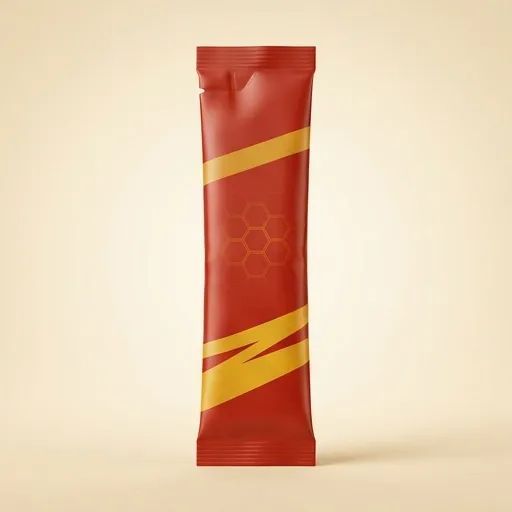
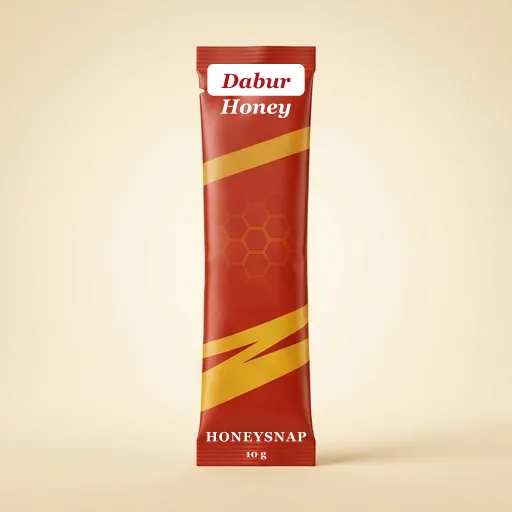
Connect admin edits to public site, brand HoneySnap pack, fix checkout input focus bug
- Recipes and products are now live lists merged with admin edits (published only)
- Branded the HoneySnap sachet image; shop uses it for both pack sizes
- Checkout fields no longer remount on every keystroke

Changed region(s): [[0.4062, 0.125, 0.5938, 0.25], [0.4062, 0.8438, 0.5938, 0.9062]]

diff --git a/src/lib/admin-data.js b/src/lib/admin-data.js
@@ -1,7 +1,7 @@
 // Admin data layer (prototype): localStorage-backed CMS + analytics helpers.
 // Production would replace these with API calls + a database.
-import { RECIPES, OCCASIONS } from '../data/recipes.js';
-import { PRODUCTS } from '../data/products.js';
+import { SEED_RECIPES as RECIPES, OCCASIONS, refreshRecipes } from '../data/recipes.js';
+import { SEED_PRODUCTS as PRODUCTS, refreshProducts } from '../data/products.js';
 
 export const CITIES = ['Delhi', 'Mumbai', 'Bengaluru', 'Hyderabad', 'Pune'];
 export const RECIPE_IMAGES = [
@@ -16,6 +16,8 @@ const save = (k, v) => { try { localStorage.setItem(k, JSON.stringify(v)); } cat
 
 export function resetAdminData() {
   try { Object.keys(localStorage).filter((k) => k.startsWith('dh_admin_')).forEach((k) => localStorage.removeItem(k)); } catch { /* ignore */ }
+  refreshRecipes();
+  refreshProducts();
 }
 
 // ---------- Recipes ----------  store: { [id]: recipe | { id, _deleted: true } }
@@ -32,11 +34,13 @@ export function saveRecipe(recipe) {
   const store = recipeStore();
   store[recipe.id] = { ...recipe, _deleted: false };
   save(K.recipes, store);
+  refreshRecipes();
 }
 export function deleteRecipe(id) {
   const store = recipeStore();
   if (RECIPES.some((r) => r.id === id)) store[id] = { id, _deleted: true }; else delete store[id];
   save(K.recipes, store);
+  refreshRecipes();
 }
 export const exportRecipesJSON = () => JSON.stringify(getAllRecipes(), null, 2);
 export function importRecipesJSON(text) {
@@ -45,6 +49,7 @@ export function importRecipesJSON(text) {
   const store = recipeStore();
   arr.forEach((r) => { if (r && r.id && r.title) store[r.id] = { ...r, _deleted: false }; });
   save(K.recipes, store);
+  refreshRecipes();
   return arr.length;
 }
 export const slugify = (s) => s.toLowerCase().replace(/[^a-z0-9]+/g, '-').replace(/^-|-$/g, '');
@@ -75,6 +80,7 @@ export function patchProduct(id, patch) {
   const s = productStore();
   s[id] = { ...(s[id] || {}), ...patch };
   save(K.products, s);
+  refreshProducts();
 }
 
 // ---------- Campaigns ----------

diff --git a/src/data/recipes.js b/src/data/recipes.js
@@ -13,7 +13,7 @@ export const INGREDIENT_FILTERS = ['Bread', 'Banana', 'Oats', 'Milk', 'Yogurt', 
 
 const r = (o) => ({ difficulty: 'Easy', serves: 1, ...o });
 
-export const RECIPES = [
+const SEED = [
   r({
     id: 'honey-banana-toast', title: 'Honey Banana Toast', image: '/images/recipe-banana-toast.webp',
     occasions: ['breakfast', 'onthego', 'snacks'], time: 2, honey: '1 tsp', popularity: 98,
@@ -136,6 +136,29 @@ export const RECIPES = [
     steps: ['Mix a honey dough, roll thin and bake the layers.', 'Sandwich layers with sweetened cream and rest overnight.', 'Slice, drizzle with Dabur Honey and top with nuts.'],
   }),
 ];
+
+export const SEED_RECIPES = SEED;
+
+// Live catalogue: seed recipes merged with admin CMS edits (localStorage 'dh_admin_recipes').
+// Only published, non-deleted recipes appear on the public site. Mutated in place so existing imports stay valid.
+export const RECIPES = [];
+const ADMIN_KEY = 'dh_admin_recipes';
+export function refreshRecipes() {
+  let store = {};
+  try { store = JSON.parse(localStorage.getItem(ADMIN_KEY) || '{}') || {}; } catch { store = {}; }
+  const seedIds = new Set(SEED.map((x) => x.id));
+  const merged = [...SEED.map((x) => ({ ...x, ...(store[x.id] || {}) })), ...Object.values(store).filter((x) => !seedIds.has(x.id))];
+  const live = merged
+    .filter((x) => !x._deleted && (x.status ?? 'published') === 'published' && x.title && (x.steps || []).length)
+    .map((x) => ({
+      difficulty: 'Easy', serves: 1, popularity: 50, occasions: [], ingredients: [], honey: '',
+      ...x, time: Number(x.time) || 5, serves: Number(x.serves) || 1,
+      image: x.image || '/images/cat-breakfast.webp',
+      steps: (x.steps || []).filter((t) => String(t).trim()),
+    }));
+  RECIPES.splice(0, RECIPES.length, ...live);
+}
+refreshRecipes();
 
 export const getRecipe = (idOrSlug) => RECIPES.find((x) => x.id === idOrSlug);
 export const getOccasion = (id) => OCCASIONS.find((o) => o.id === id);

diff --git a/src/pages/Checkout.jsx b/src/pages/Checkout.jsx
@@ -58,8 +58,9 @@ export default function Checkout() {
     setOrder(o);
   };
 
-  const Field = ({ k, label, ...rest }) => (
-    <div>
+  // A render helper (not a component) so inputs keep focus between keystrokes.
+  const renderField = ({ k, label, ...rest }) => (
+    <div key={k}>
       <label htmlFor={k} className="block text-sm font-medium mb-1">{label}</label>
       <input id={k} className={field} value={form[k]} onChange={set(k)} aria-invalid={!!errors[k]} aria-describedby={errors[k] ? k + '-err' : undefined} {...rest} />
       {errors[k] && <p id={k + '-err'} className="text-sm text-brand mt-1">{errors[k]}</p>}
@@ -75,10 +76,10 @@ export default function Checkout() {
       </div>
       <div className="mt-6 grid md:grid-cols-[1fr_340px] gap-6 items-start">
         <form onSubmit={submit} noValidate className="card p-5 grid gap-4">
-          <Field k="name" label="Full name" autoComplete="name" />
-          <Field k="phone" label="Mobile number" inputMode="numeric" autoComplete="tel" maxLength={10} />
-          <Field k="address" label="Delivery address" autoComplete="street-address" />
-          <Field k="pincode" label="Pincode" inputMode="numeric" autoComplete="postal-code" maxLength={6} />
+          {renderField({ k: 'name', label: 'Full name', autoComplete: 'name' })}
+          {renderField({ k: 'phone', label: 'Mobile number', inputMode: 'numeric', autoComplete: 'tel', maxLength: 10 })}
+          {renderField({ k: 'address', label: 'Delivery address', autoComplete: 'street-address' })}
+          {renderField({ k: 'pincode', label: 'Pincode', inputMode: 'numeric', autoComplete: 'postal-code', maxLength: 6 })}
           <fieldset>
             <legend className="text-sm font-medium mb-2">Payment method</legend>
             <div className="grid gap-2">

diff --git a/src/data/products.js b/src/data/products.js
@@ -1,5 +1,5 @@
 // Seed product catalogue. Prices/availability are illustrative and must be configured per geography at launch.
-export const PRODUCTS = [
+const SEED = [
   {
     id: 'honeysnap-10', name: 'Dabur HoneySnap', variant: '10 g × 10 packs', family: 'honeysnap', price: 99, mrp: 110,
     image: '/images/honeysnap-pack.webp', badge: 'NEW',
@@ -8,7 +8,7 @@ export const PRODUCTS = [
   },
   {
     id: 'honeysnap-30', name: 'Dabur HoneySnap', variant: '10 g × 30 packs', family: 'honeysnap', price: 279, mrp: 330,
-    image: '/images/honeysnap-angle.webp', badge: 'NEW',
+    image: '/images/honeysnap-pack.webp', badge: 'NEW',
     description: 'A month of single-serve honey in one pack.',
     available: true,
   },
@@ -19,6 +19,20 @@ export const PRODUCTS = [
     available: true,
   },
 ];
+export const SEED_PRODUCTS = SEED;
+
+// Live catalogue: seed products with admin overrides (price, availability) from localStorage 'dh_admin_products'.
+export const PRODUCTS = [];
+export function refreshProducts() {
+  let store = {};
+  try { store = JSON.parse(localStorage.getItem('dh_admin_products') || '{}') || {}; } catch { store = {}; }
+  PRODUCTS.splice(0, PRODUCTS.length, ...SEED.map((p) => {
+    const o = store[p.id] || {};
+    return { ...p, price: Number(o.price) || p.price, available: o.available ?? p.available };
+  }));
+}
+refreshProducts();
+
 export const PRODUCT_FILTERS = [
   { id: 'all', label: 'All Products' }, { id: 'squeezy', label: 'Squeezy' }, { id: 'honeysnap', label: 'HoneySnap' },
 ];

diff --git a/src/admin/pages/Recipes.jsx b/src/admin/pages/Recipes.jsx
@@ -36,7 +36,7 @@ export default function Recipes() {
         <input ref={file} type="file" accept="application/json" hidden onChange={doImport} />
       </PageHeader>
       <div className="space-y-3 mb-4">
-        <Notice>Prototype: changes are stored in this browser; production would publish to the database. Public pages still read the built-in recipe list.</Notice>
+        <Notice>Prototype: changes are stored in this browser; production would publish to the database. Published recipes appear on this browser's public site immediately; drafts and deleted recipes are hidden.</Notice>
         {msg && <Notice tone="warn">{msg}</Notice>}
       </div>
       <div className="grid gap-3">

diff --git a/src/admin/pages/Products.jsx b/src/admin/pages/Products.jsx
@@ -10,7 +10,7 @@ export default function Products() {
   return (
     <>
       <PageHeader title="Products" sub="Availability and price. Stored in this browser (key dh_admin_products)." />
-      <Notice>Prototype: changes are stored in this browser; production would publish to the database. Cities are demo geographies.</Notice>
+      <Notice>Prototype: changes are stored in this browser; production would publish to the database. Price and availability changes apply to this browser's shop. City toggles are demo only.</Notice>
       <div className="grid gap-4 mt-4">
         {items.map((p) => (
           <article key={p.id} className="card p-4 flex flex-col md:flex-row gap-4">
